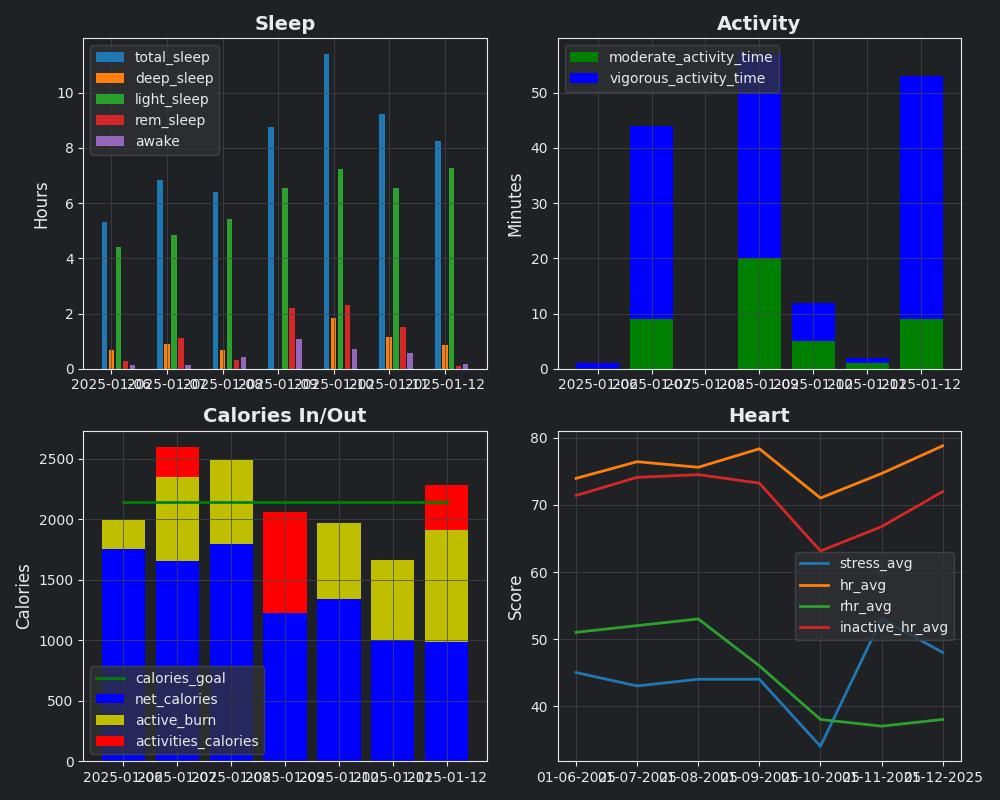
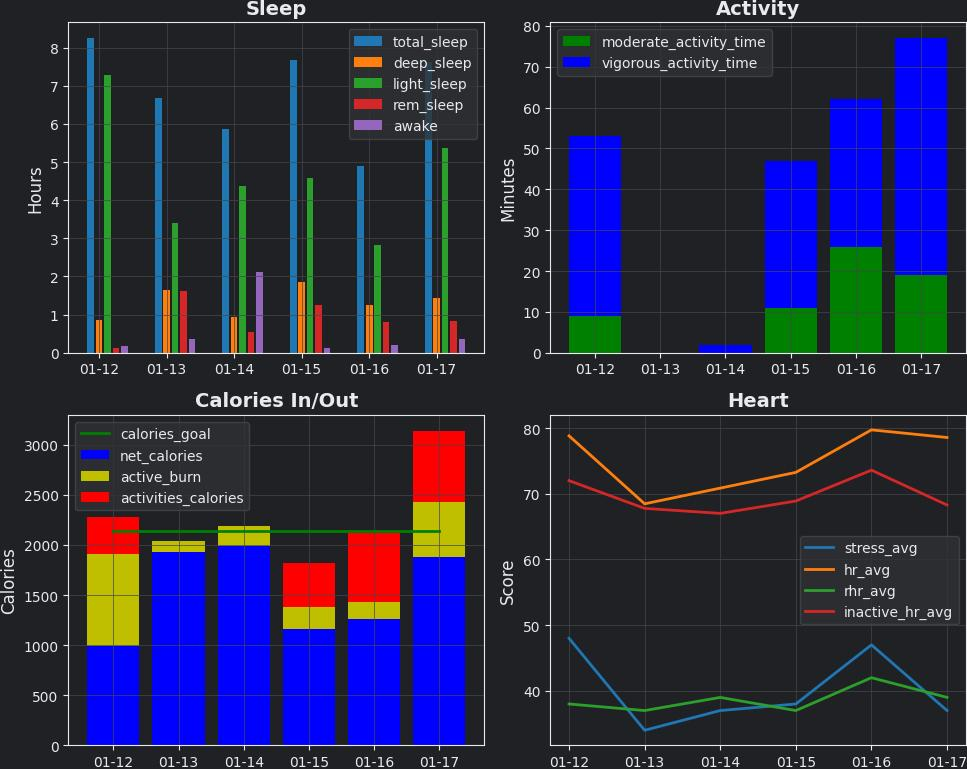
removed year form date formatter

diff --git a/graphs.py b/graphs.py
@@ -74,6 +74,7 @@ for col in sleep_df.iloc[:,1:].columns:
 axes[0,0].set_ylabel('Hours')
 axes[0,0].set_title('Sleep')
 #axes[0,0].set_ylim(top=(sleep_df.iloc[:,1:].max().max()*1.2))
+axes[0,0].xaxis.set_major_formatter(mdates.DateFormatter('%m-%d'))
 axes[0,0].legend()
 
 #Activity Chart
@@ -89,6 +90,7 @@ for row in activity_df.iterrows():
         bottom+=feature
 axes[0,1].set_ylabel('Minutes')
 axes[0,1].set_title('Activity')
+axes[0,1].xaxis.set_major_formatter(mdates.DateFormatter('%m-%d'))
 axes[0,1].legend(activity_df.columns[1:])
 
 #Calories Chart
@@ -109,6 +111,7 @@ for row in calories_df.iterrows():
         bottom+=feature
 axes[1,0].set_ylabel('Calories')
 axes[1,0].set_title('Calories In/Out')
+axes[1,0].xaxis.set_major_formatter(mdates.DateFormatter('%m-%d'))
 axes[1,0].legend(calories_df.columns[1:])
 
 #Stress Chart
@@ -120,8 +123,5 @@ axes[1,1].xaxis.set_major_formatter(mdates.DateFormatter('%m-%d'))
 axes[1,1].legend(stress_df.iloc[:,1:])
 
 plt.tight_layout()
-<<<<<<< HEAD
-=======
-plt.savefig('/home/stu/docker/homeAssistant/data/www/garmin_graphs.jpg',bbox_inches='tight',pad_inches=0)
->>>>>>> f6ccb2bb90f0b5de6256dcc3b46300e5f344b5ac
+plt.savefig('/home/stu/environments/dbgraphs/garmin_graphs.jpg',bbox_inches='tight',pad_inches=0)
 plt.show()
